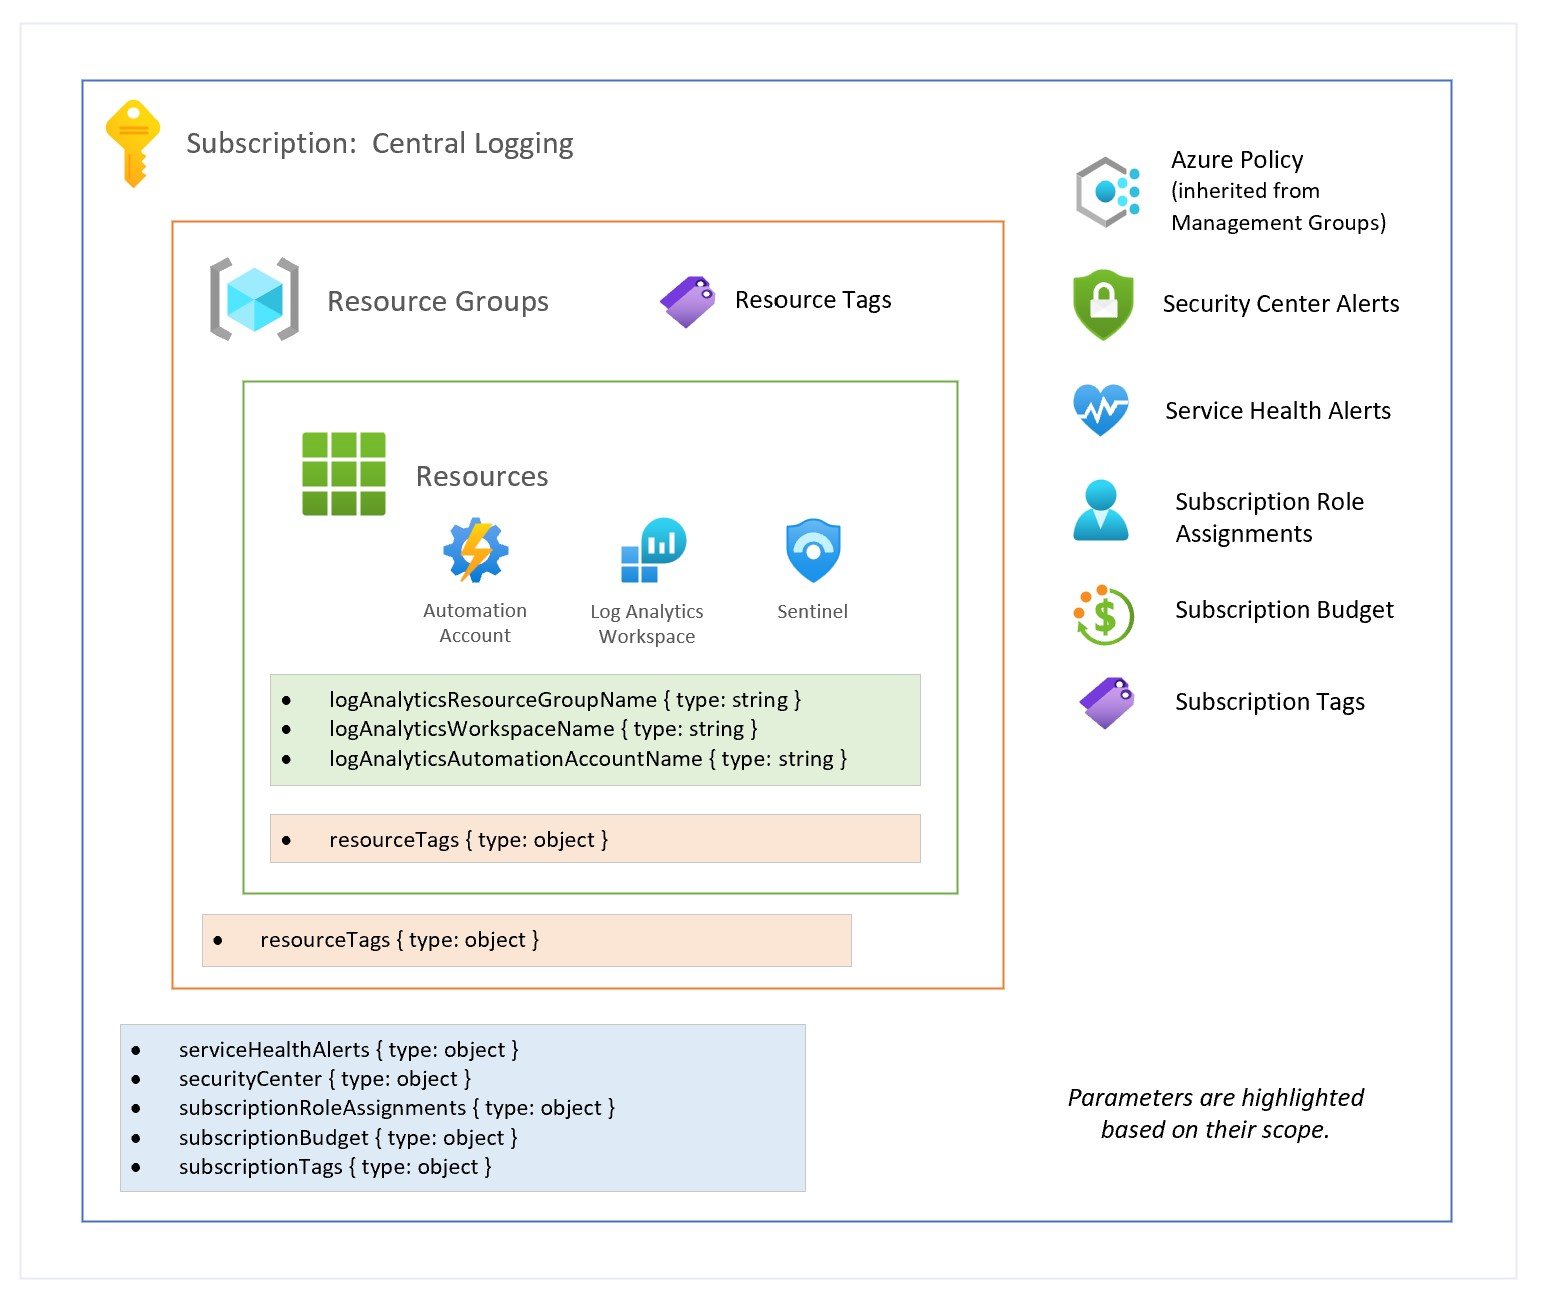
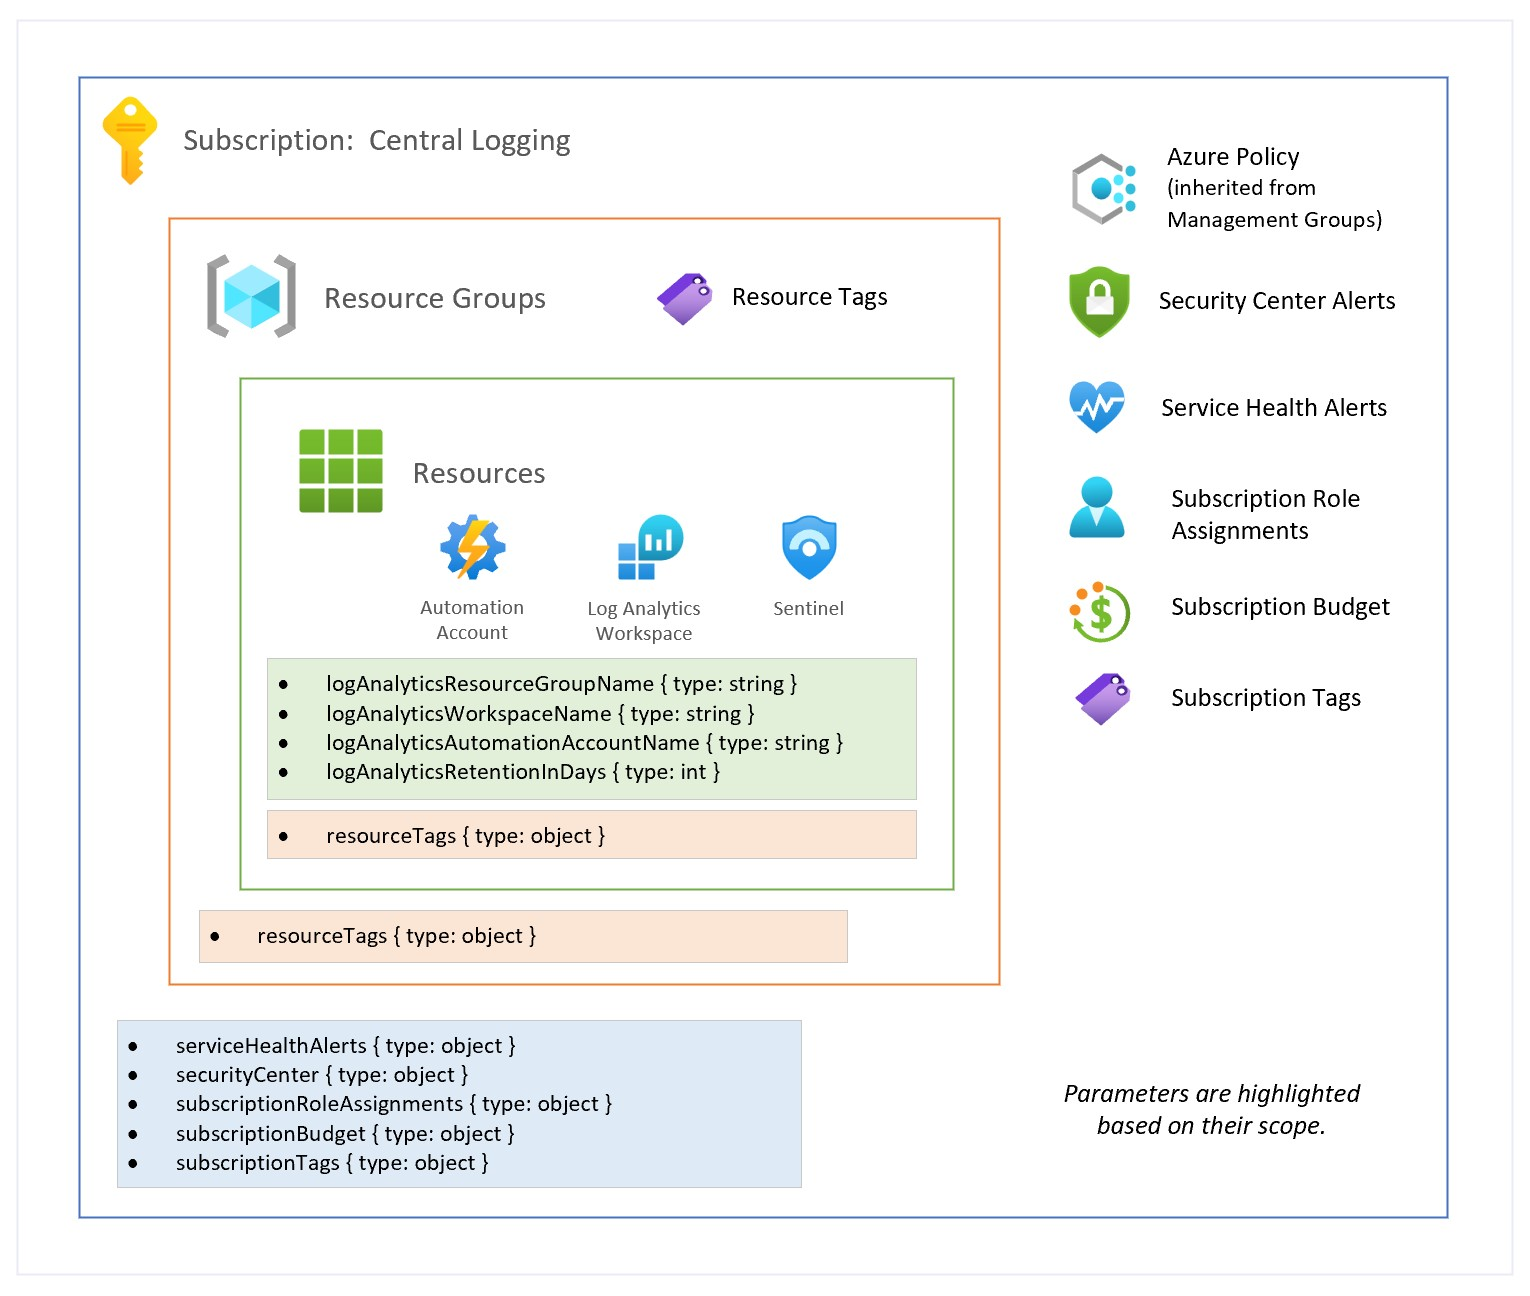
Parameterize Log Analytics Workspace log retention days (#44)

diff --git a/docs/onboarding/ado.md b/docs/onboarding/ado.md
@@ -192,6 +192,7 @@ Update **var-logging-diagnosticSettingsforNetworkSecurityGroupsStoragePrefix** p
         var-logging-subscriptionId: bc0a4f9f-07fa-4284-b1bd-fbad38578d3a
         var-logging-logAnalyticsResourceGroupName: pubsec-central-logging-rg
         var-logging-logAnalyticsWorkspaceName: log-analytics-workspace
+        var-logging-logAnalyticsRetentionInDays: 730
         var-logging-logAnalyticsAutomationAccountName: automation-account
         var-logging-diagnosticSettingsforNetworkSecurityGroupsStoragePrefix: pubsecnsg
         var-logging-serviceHealthAlerts: >
